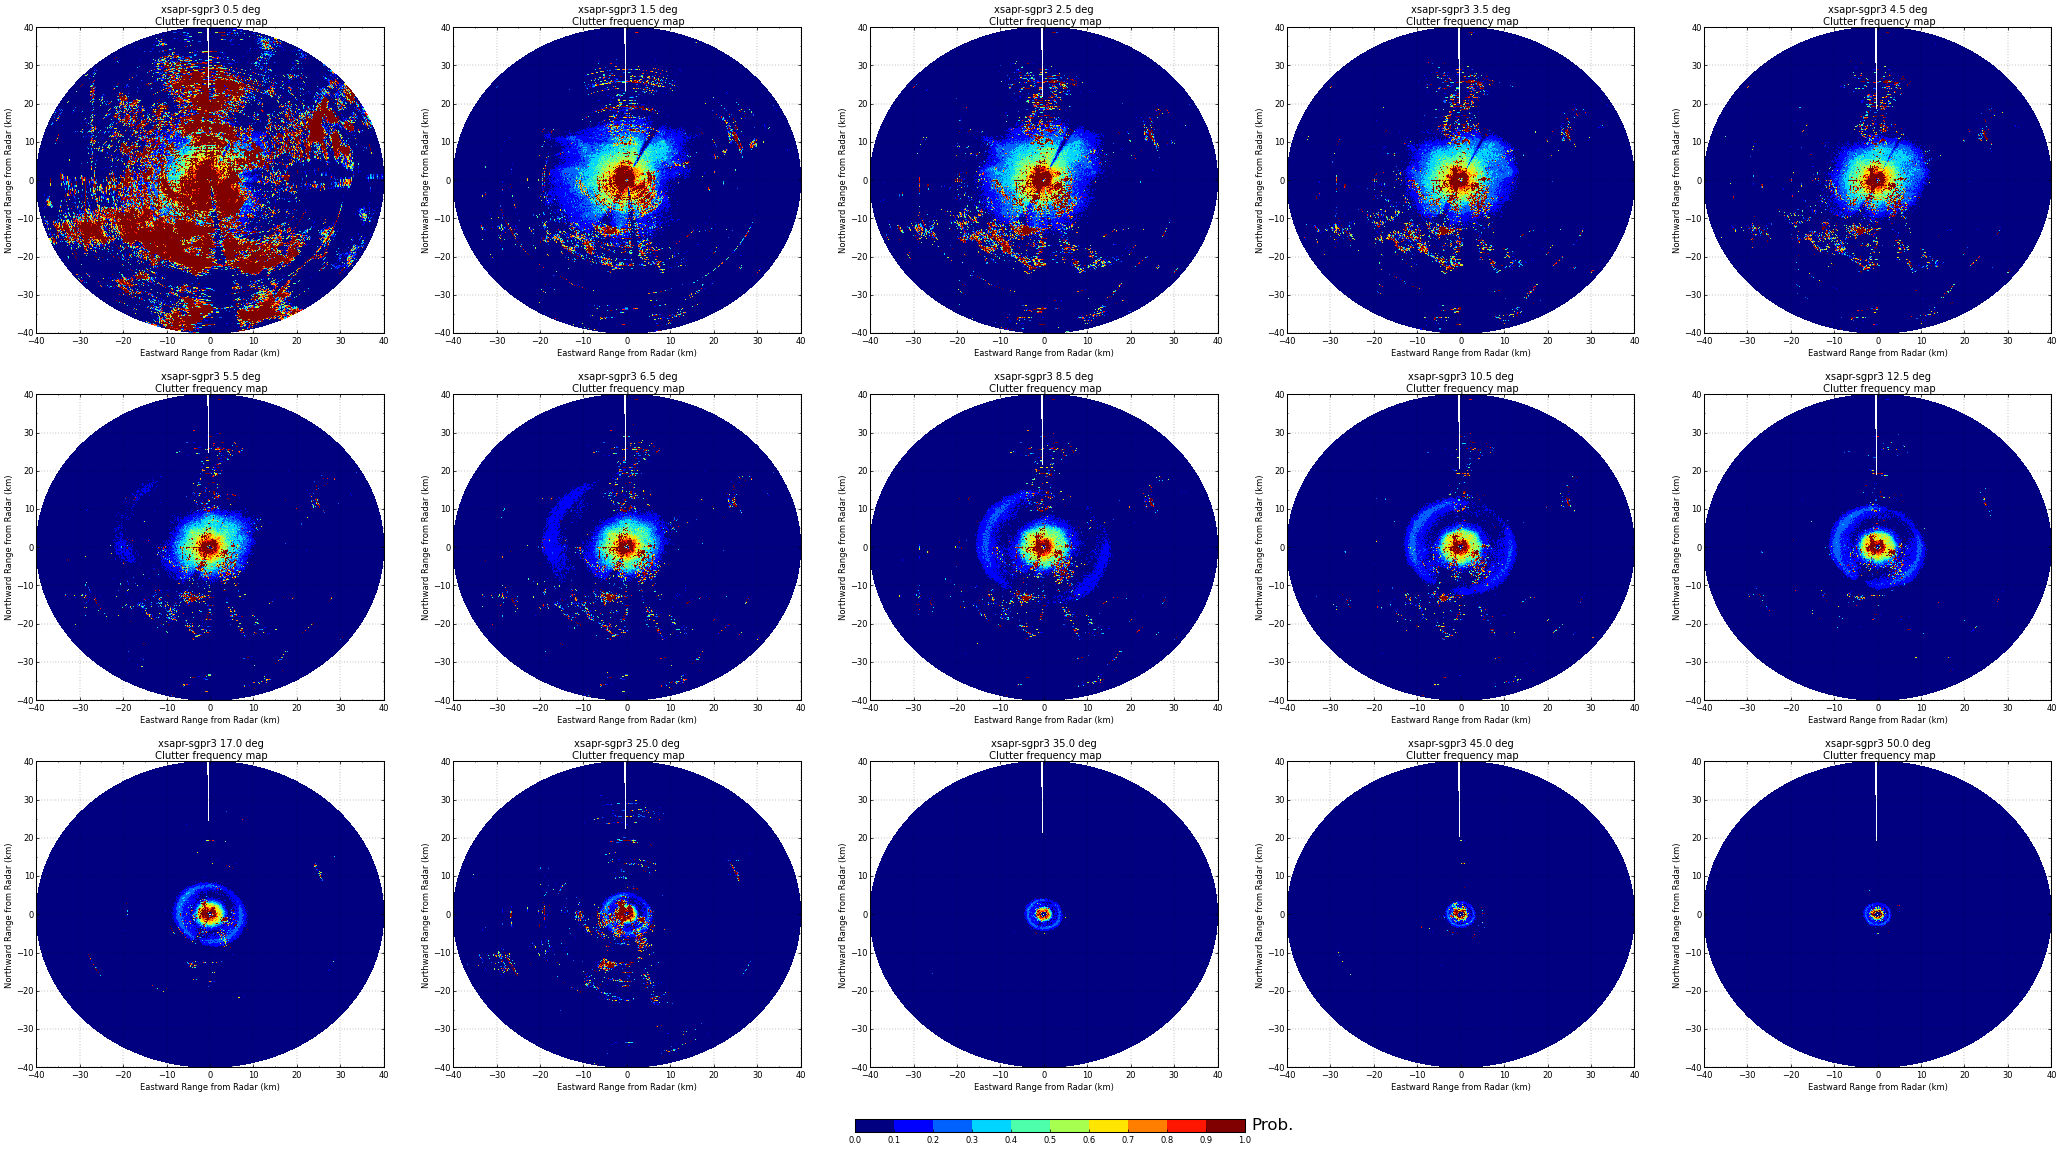
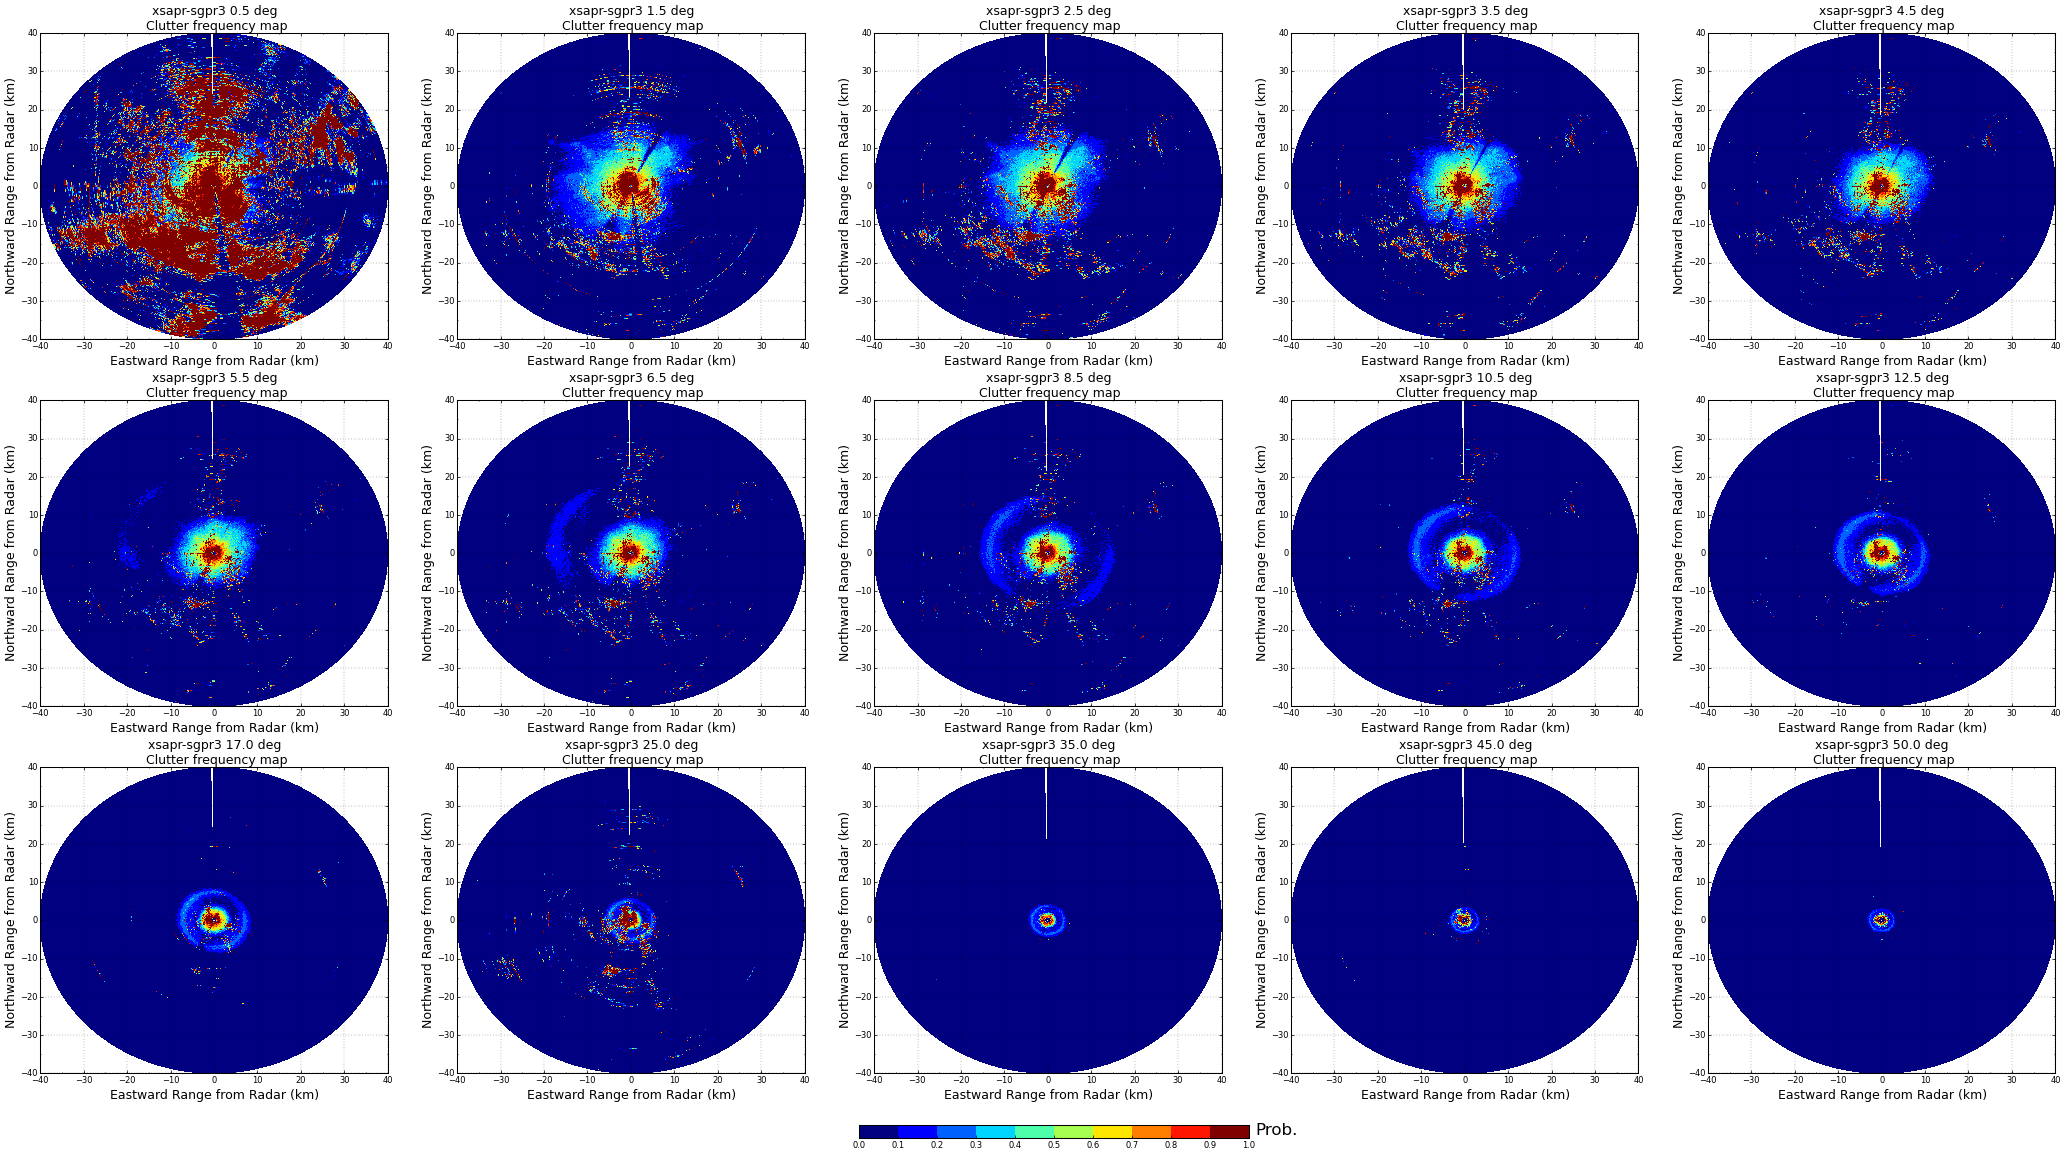
WIP: frequency map
Changed the num_sweeps kwarg to vcp_sweeps to better reflect its
purpose, i.e. radar files which are not the expected VCP should be
ignored...

diff --git a/clutter/frequency/clutter_frequency.py b/clutter/frequency/clutter_frequency.py
@@ -28,7 +28,7 @@ def _pickle_map(clutter_map, outdir, filename):
 
 
 def map_date_range(start, stop, inpdir, stamp, date_str='[0-9]{12}',
-                   date_fmt='%y%m%d%H%M%S', min_ncp=0.3, num_sweeps=22,
+                   date_fmt='%y%m%d%H%M%S', min_ncp=0.3, vcp_sweeps=22,
                    exclude_fields=None, refl_field=None, ncp_field=None,
                    debug=False, verbose=False):
     """
@@ -80,7 +80,7 @@ def map_date_range(start, stop, inpdir, stamp, date_str='[0-9]{12}',
 
         # Make sure radar has proper number of sweeps
         # This is a way to check that VCPs are consistent
-        if radar.nsweeps < num_sweeps:
+        if radar.nsweeps != vcp_sweeps:
             continue
 
         # Find pixels that have a coherent signal
@@ -112,7 +112,7 @@ def map_date_range(start, stop, inpdir, stamp, date_str='[0-9]{12}',
     }
 
 
-def map_json_list(filename, inpdir=None, min_ncp=0.3, num_sweeps=22,
+def map_json_list(filename, inpdir=None, min_ncp=0.3, vcp_sweeps=22,
                   exclude_fields=None, refl_field=None, ncp_field=None,
                   debug=False, verbose=False):
     """
@@ -159,7 +159,7 @@ def map_json_list(filename, inpdir=None, min_ncp=0.3, num_sweeps=22,
 
         # Make sure radar has proper number of sweeps
         # This is a way to check that VCPs are consistent
-        if radar.nsweeps < num_sweeps:
+        if radar.nsweeps != vcp_sweeps:
             continue
 
         # Find pixels that have a coherent signal
